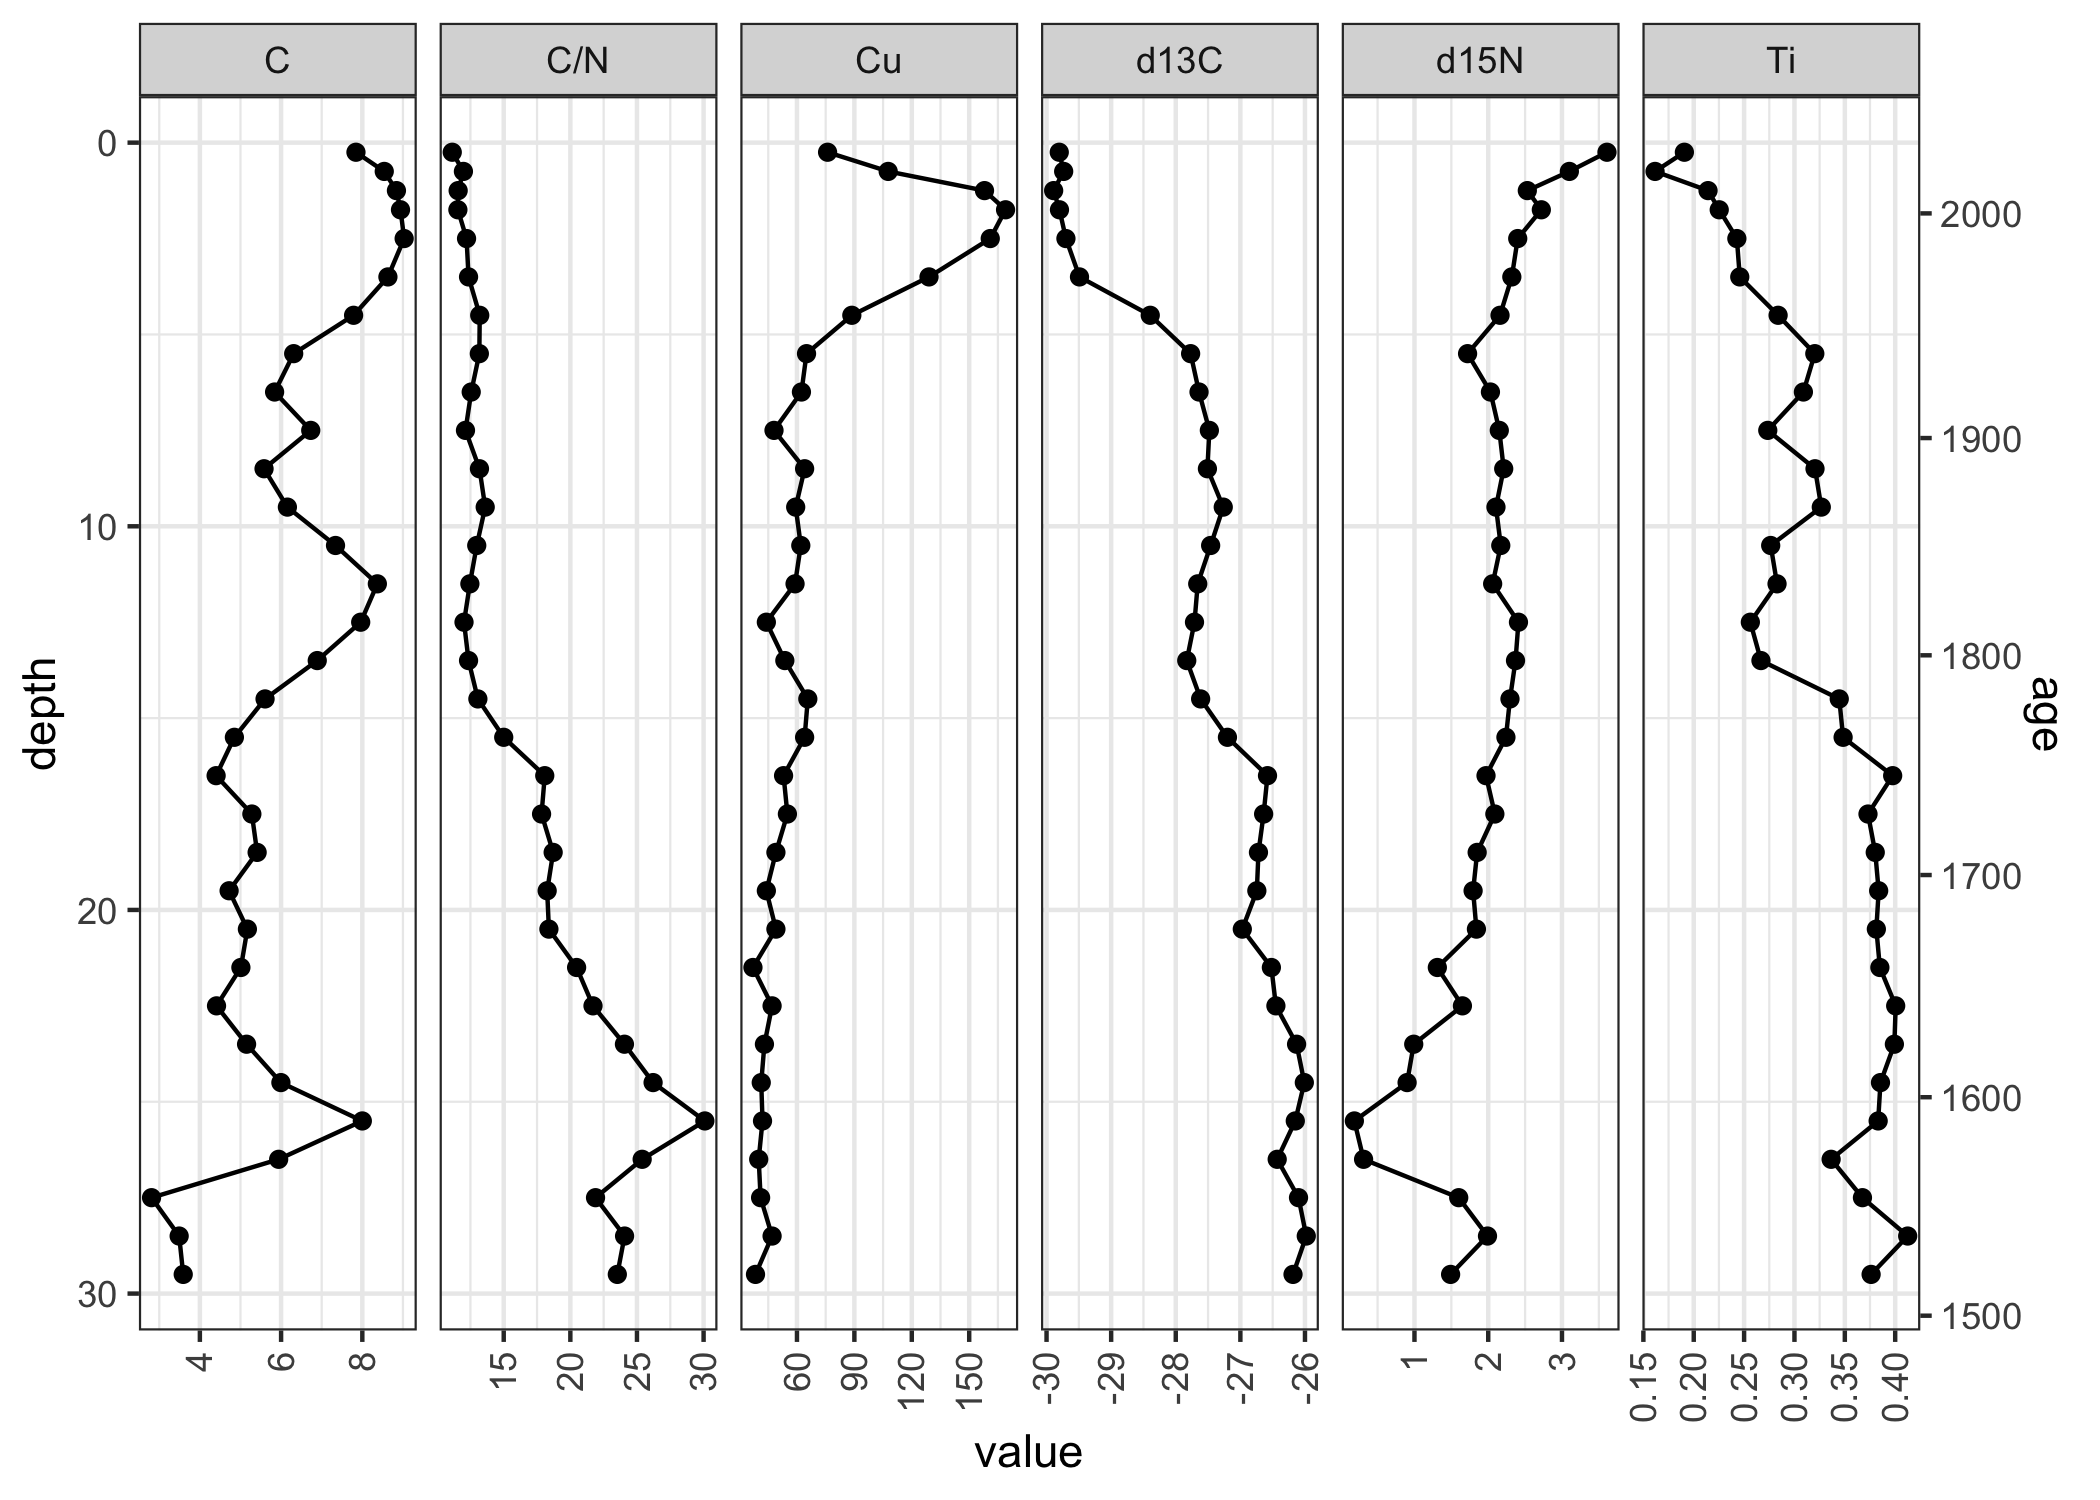
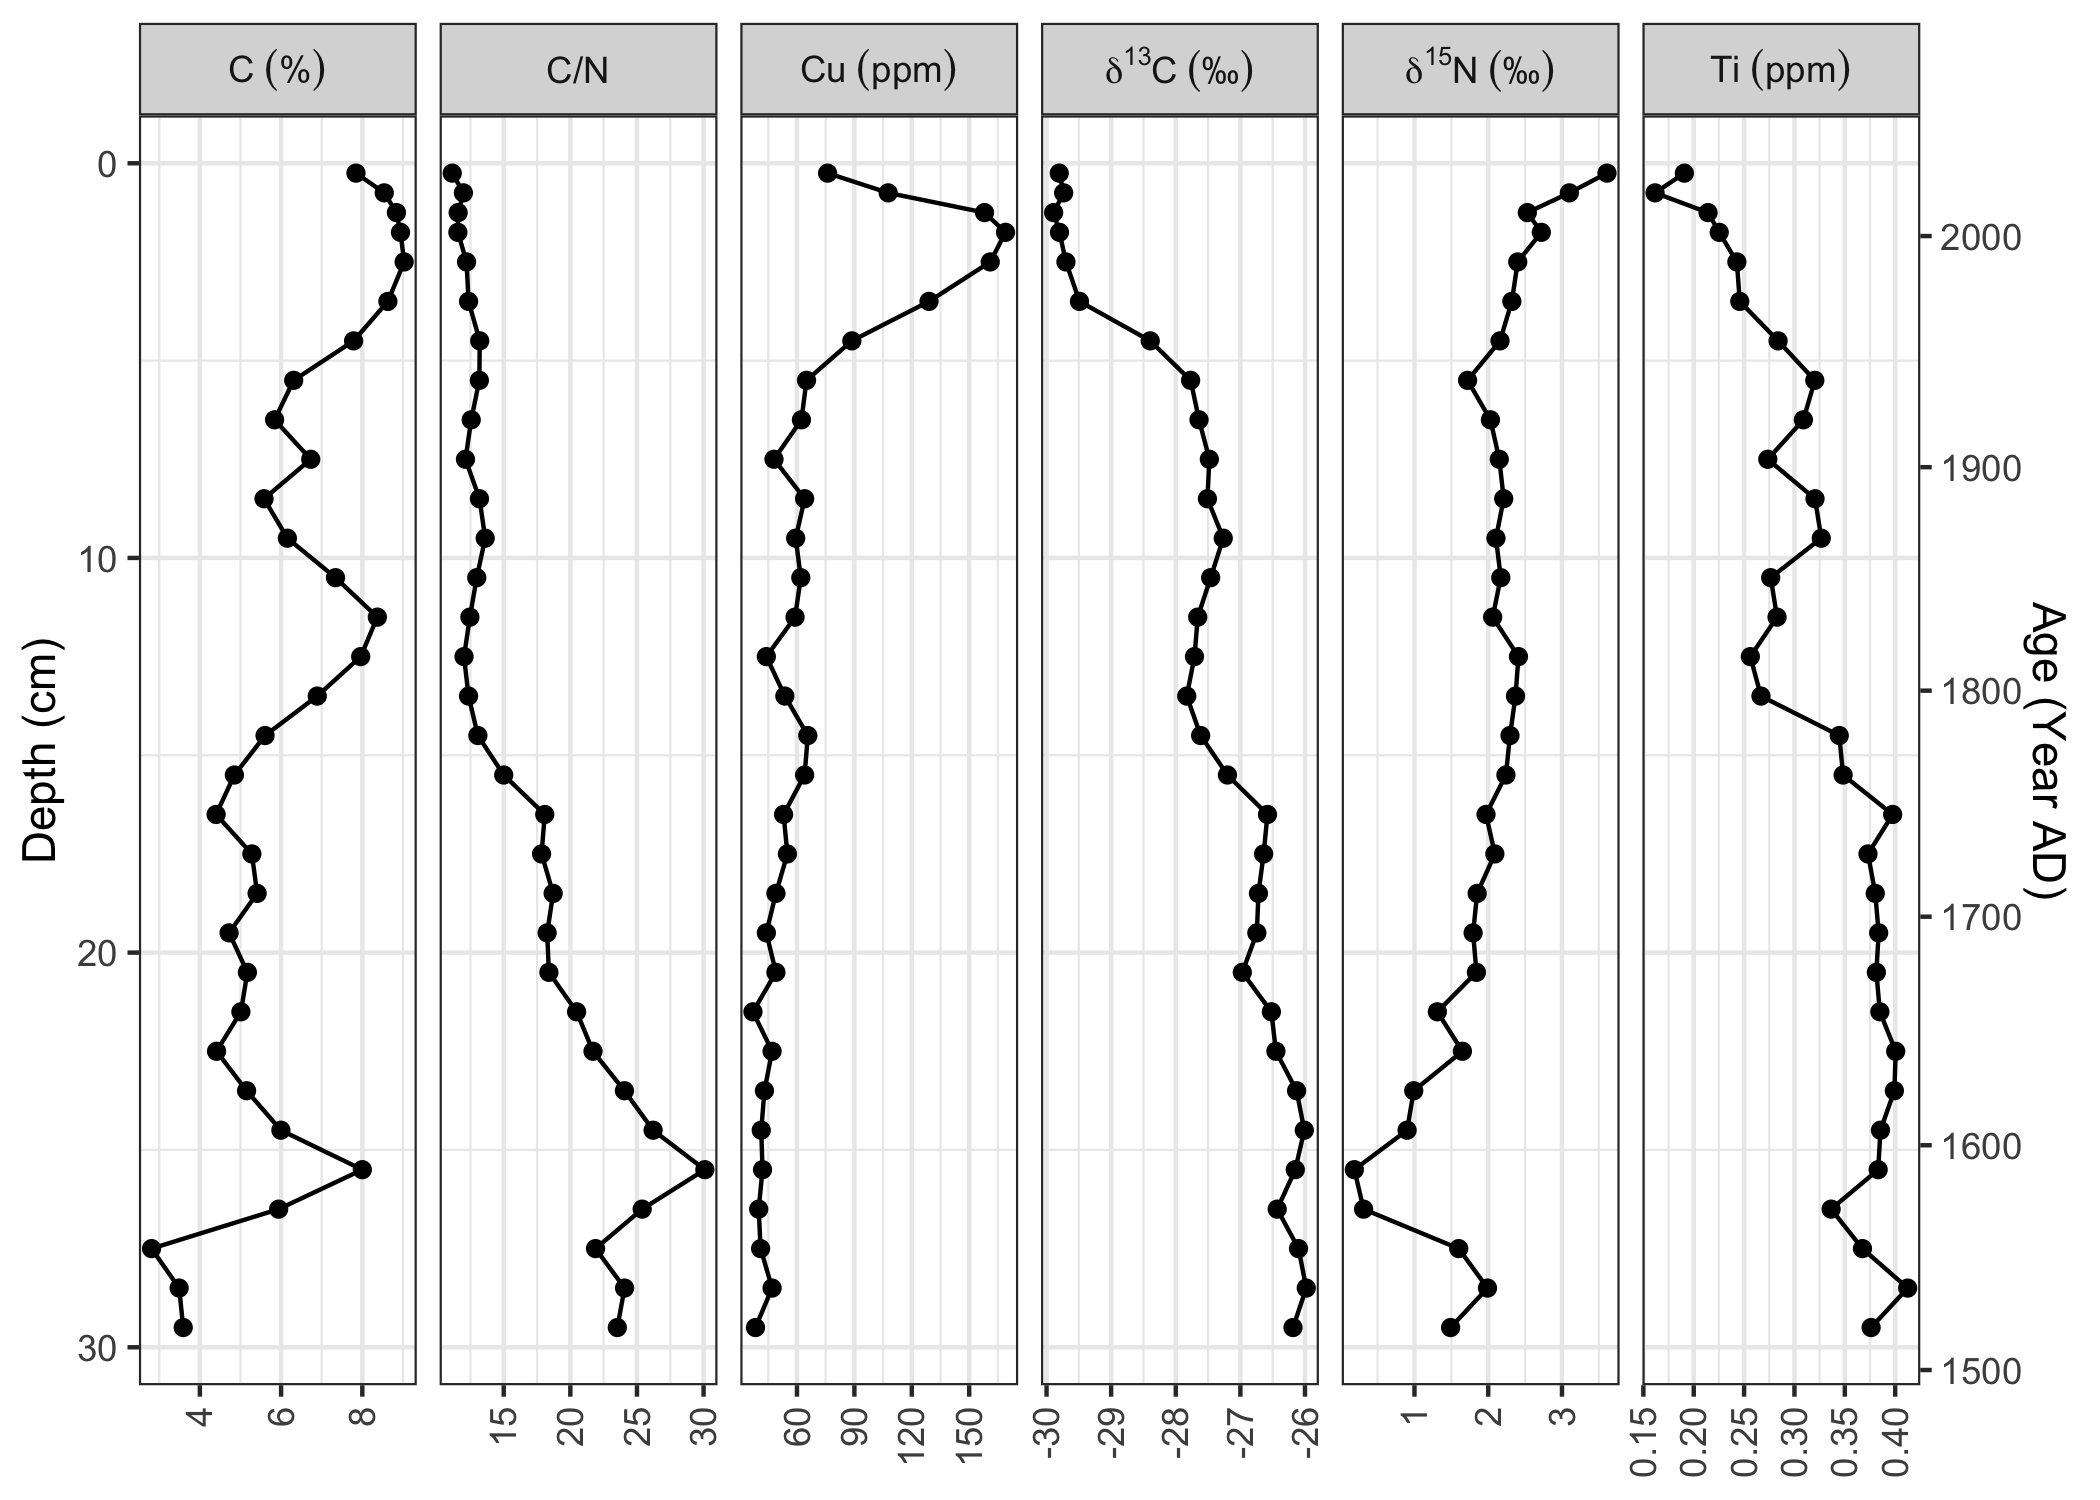
add geochem facet, make readme labels prettier

diff --git a/README.md b/README.md
@@ -29,7 +29,8 @@ theme_set(theme_bw())
 ggplot(keji_lakes_plottable, aes(x = rel_abund, y = depth)) +
   geom_col_segsh() +
   scale_y_reverse() +
-  facet_abundanceh(vars(taxon), grouping = vars(location))
+  facet_abundanceh(vars(taxon), grouping = vars(location)) +
+  labs(y = "Depth (cm)")
 ```
 
 ![](README-keji-strat-1.png)
@@ -39,7 +40,8 @@ Relative abundance data with a discrete y axis can be drawn using `geom_colh()` 
 ``` r
 ggplot(halifax_lakes_plottable, aes(x = rel_abund, y = location, fill = sample_type)) +
   geom_colh(width = 0.5, position = "dodgev") +
-  facet_abundanceh(vars(taxon))
+  facet_abundanceh(vars(taxon)) +
+  labs(fill = NULL, y = NULL)
 ```
 
 ![](README-halifax-lakes-plot-1.png)
@@ -57,9 +59,19 @@ alta_adm <- age_depth_model(
 ggplot(alta_lake_geochem, aes(x = value, y = depth)) +
   geom_path() +
   geom_point() +
-  scale_y_depth_age(alta_adm) +
-  facet_wrap(vars(param), scales = "free_x", nrow = 1) +
-  rotated_axis_labels()
+  scale_y_depth_age(alta_adm, age_name = "Age (Year AD)") +
+  facet_geochem(
+    vars(param), 
+    nrow = 1, 
+    units = c(
+      C = "%",
+      Cu = "ppm",
+      Ti = "ppm",
+      d15N = "‰",
+      d13C = "‰"
+    )
+  ) +
+  labs(y = "Depth (cm)", x = NULL)
 ```
 
 ![](README-alta-strat-1.png)
